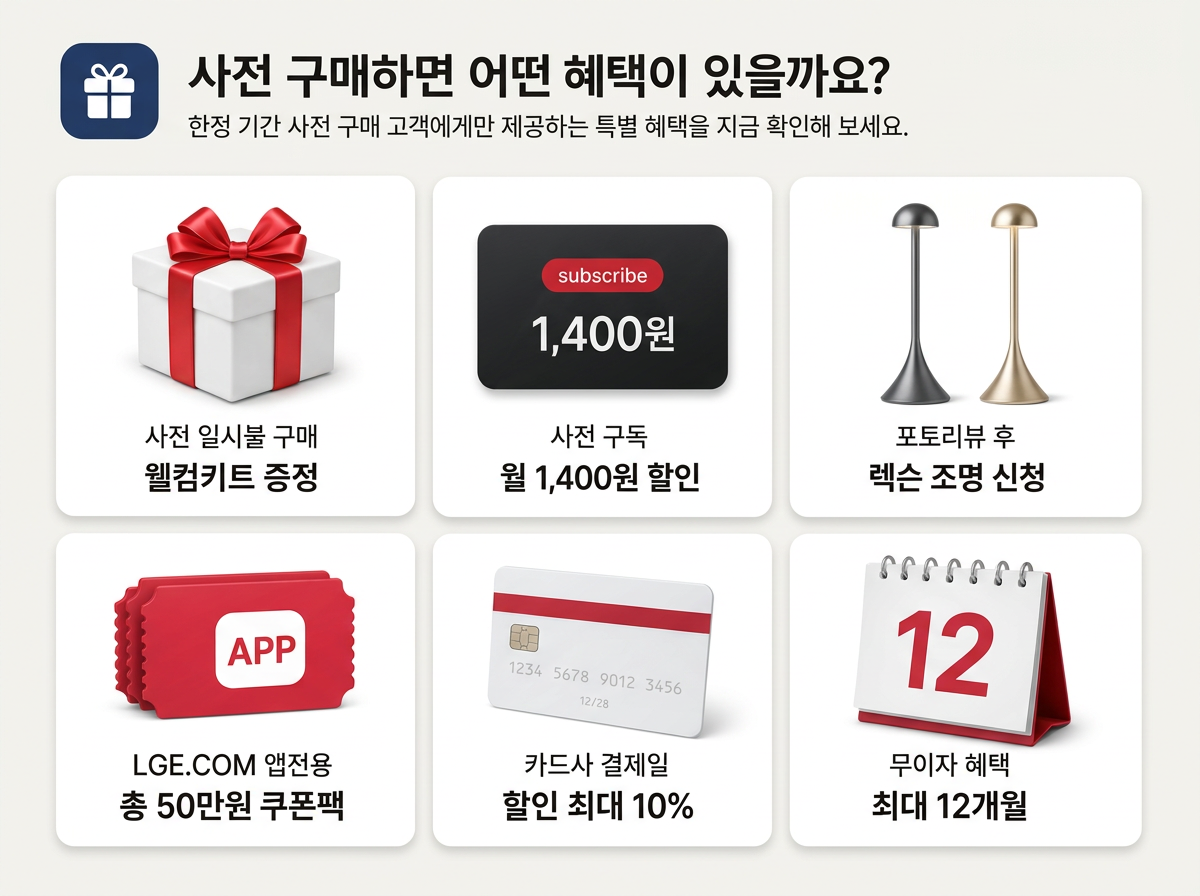
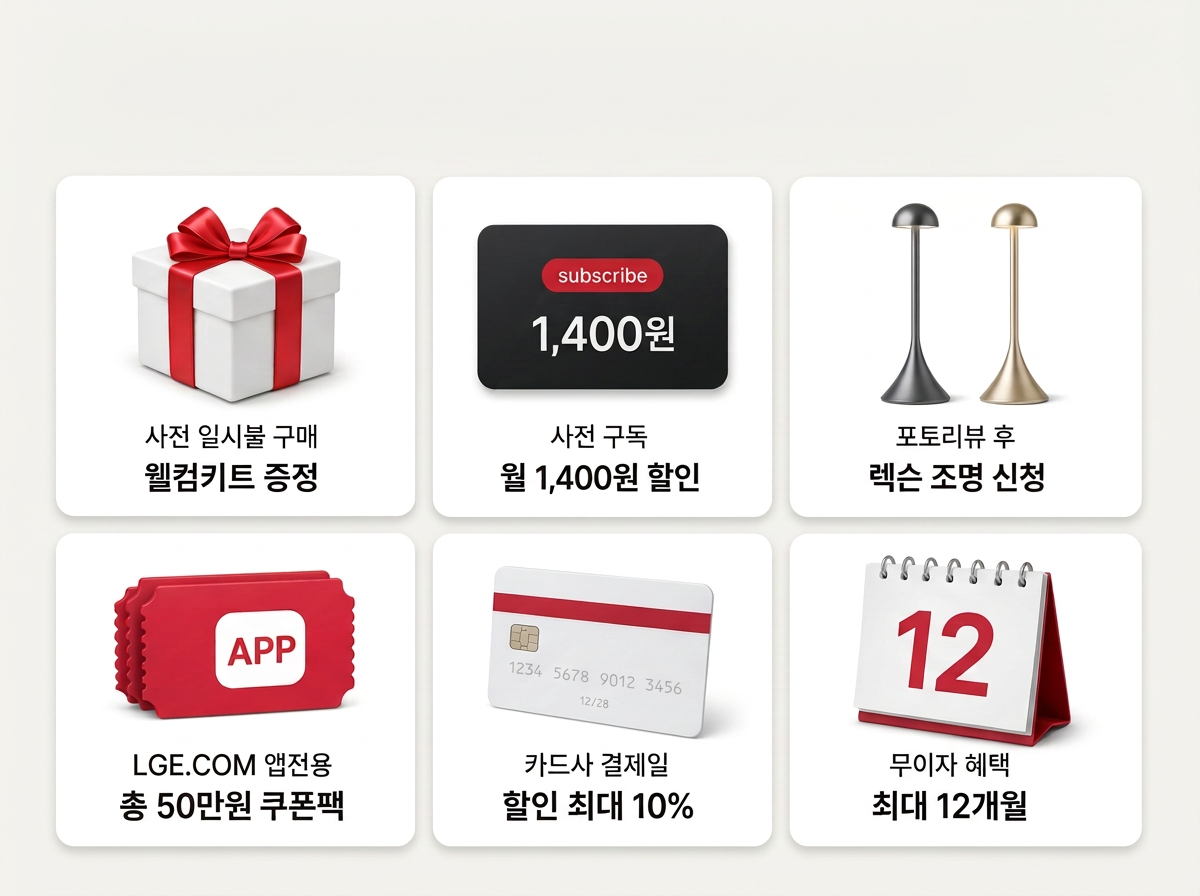
Changes

Changed region(s): [[0.0308, 0.0312, 0.7708, 0.1562]]

diff --git a/src/data/features.ts b/src/data/features.ts
@@ -1164,12 +1164,12 @@ export const featuresMap: Record<string, Feature[]> = {
     {
       id: "9",
       title: "사전 구매하면 어떤 혜택이 있을까요?",
-      subtitle: "한정 기간 사전 구매 고객에게만 제공하는\n특별 혜택을 지금 확인해 보세요.",
+      subtitle: "사전 구매 고객님께만 드리는 특별한 혜택을\n지금 바로 확인해 보세요.",
       icon: "Gift",
       tag: "사전 구매 특별 혜택",
       mediaType: "image",
-      mediaUrl: "/images/vacuum-preorder-benefits.png?v=20260703",
-      description: "청소로봇 사전 구매 고객에게만 준비된 특별 혜택을 확인해 보세요. 한정 수량과 기간 동안 제공되는 추가 서비스 및 사은품으로 더욱 가치 있는 구매 경험을 만들어드려요.",
+      mediaUrl: "/images/vacuum-preorder-benefits.png?v=20260703b",
+      description: "사전 구매 고객님께만 드리는 특별한 혜택을 지금 바로 확인해 보세요. 한정 수량과 기간 동안 제공되는 추가 서비스와 사은품으로 더욱 만족스러운 구매 경험을 선사해 드려요.",
       highlights: [],
     },
   ],
